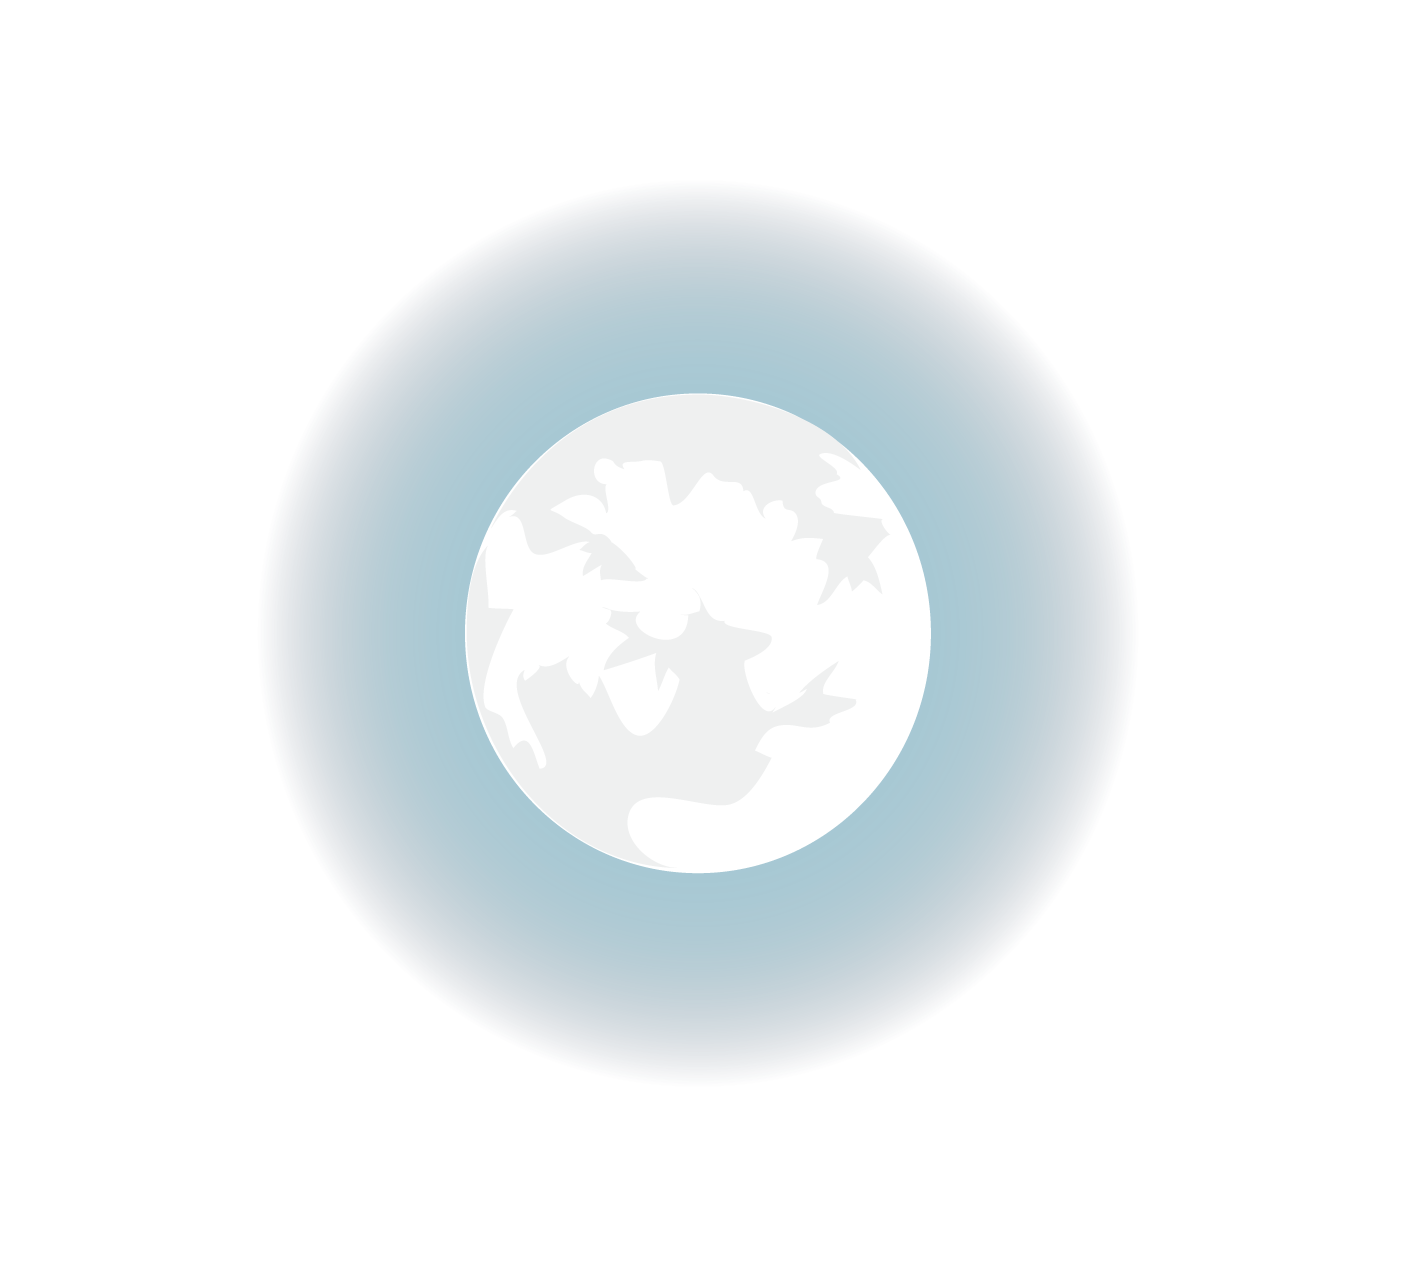
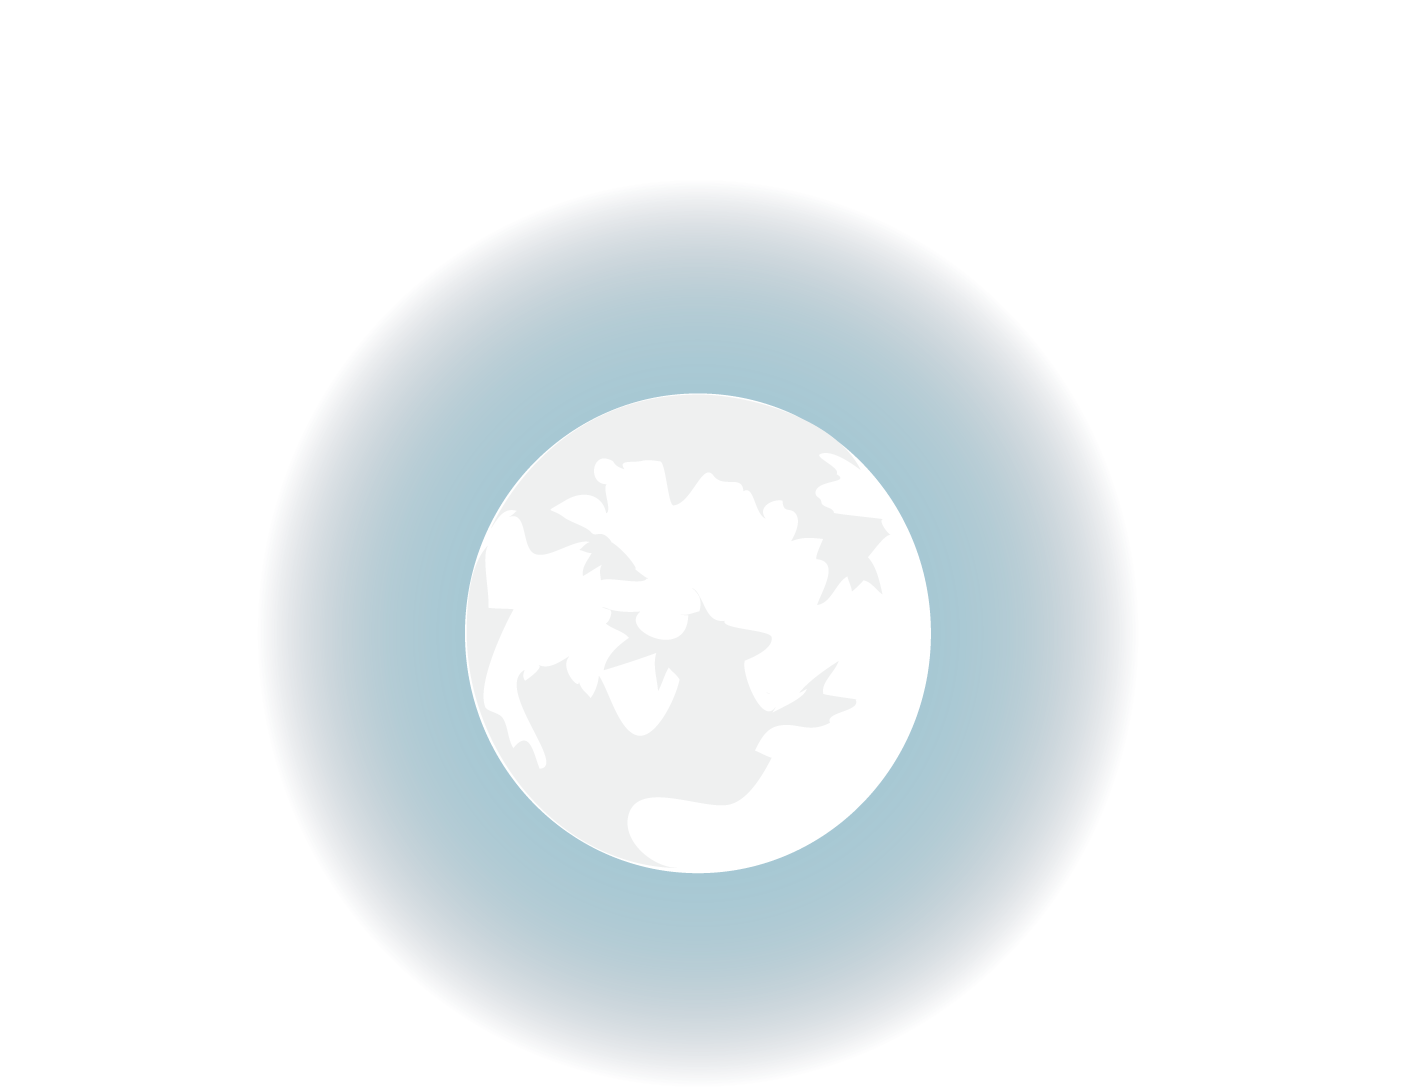
Moony tweaks

diff --git a/index.html b/index.html
@@ -8,7 +8,7 @@
     <script src="http://html5shiv.googlecode.com/svn/trunk/html5.js"></script><![endif]-->
   </head>
   <body>
-    <div data-0="top: -250px" data-1700="top: -250px" data-2500="top: 0px" class="moon"><img src="images/moon.png"></div>
+    <div data-0="top: -275px" data-1700="top: -250px" data-2500="top: 0px" class="moon"><img src="images/moon.png"></div>
     <div id="skrollr-body">
       <section id="top" class="header">
         <div class="row pre-nav">
